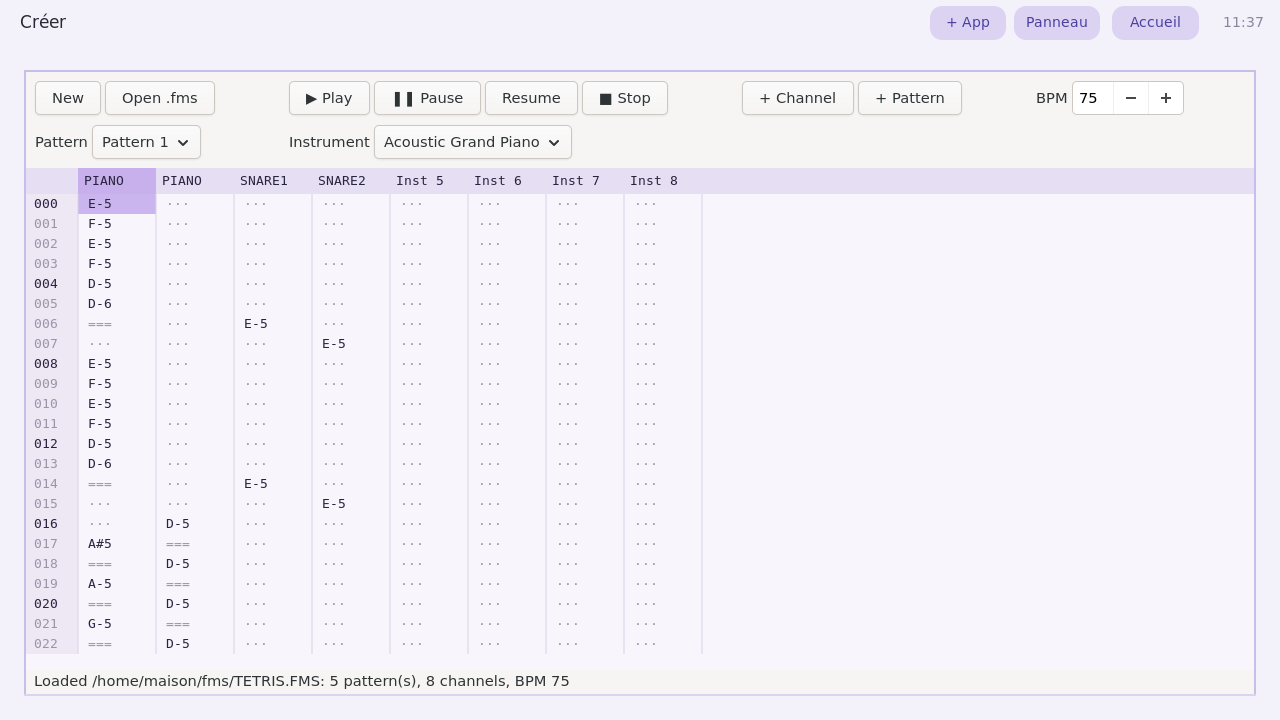
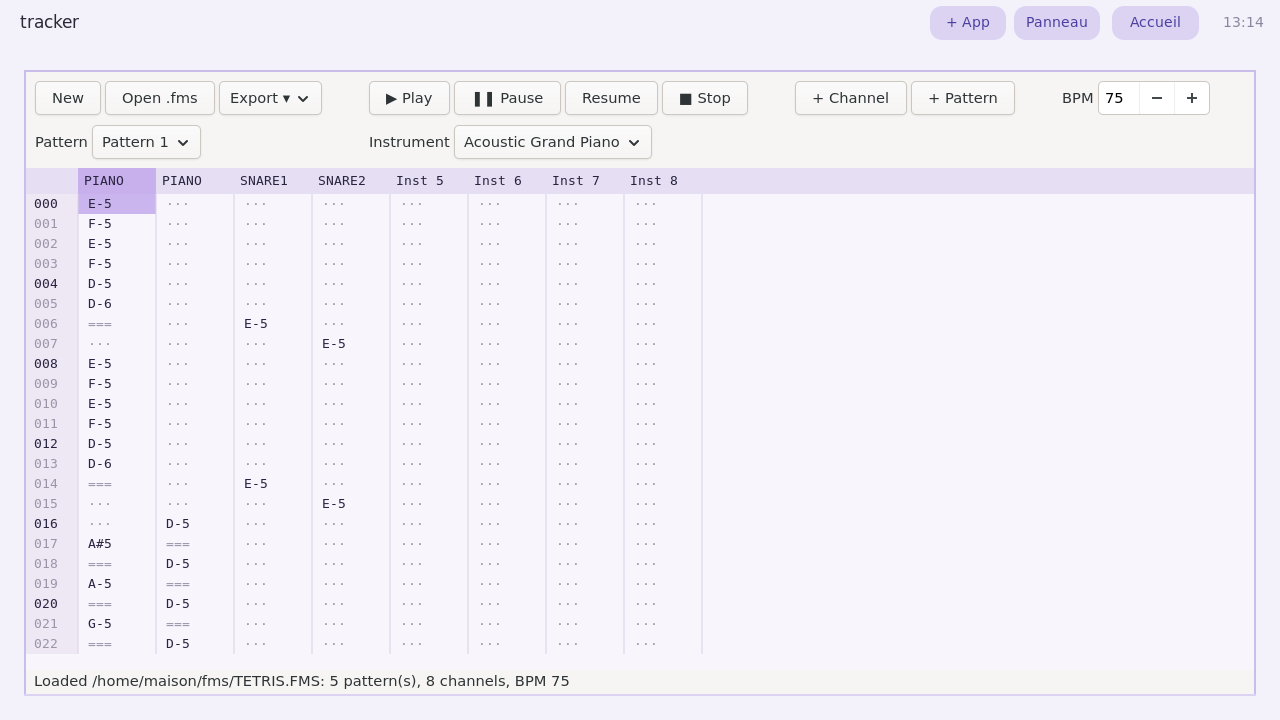
fmtracker: export to MIDI/WAV/MP3/MuseScore; credit FM-Song; document export + theming
- export.py: native Standard MIDI File writer; WAV via fluidsynth; MP3 via
  ffmpeg/lame; MuseScore via the mscore CLI. New "Export ▾" toolbar menu in the app
  (runs in a worker thread). Verified on the Pi: MIDI, WAV and MP3 all produce files.
- Credit the origin: FM-Song by Asher256 (github.com/Asher256, qbworld.asher256.com)
  in the app package, the README and the user manual.
- Docs: add a Themes section (Super+Shift+T, light/dark palettes, global or per
  activity) + screenshot; document the tracker export. Refresh the fmtracker shot
  (now shows the Export button).
- Deps: add ffmpeg (install-deps.sh; .deb Recommends ffmpeg + musescore3).

diff --git a/rootfs/usr/local/lib/focusde/apps/fmtracker/export.py b/rootfs/usr/local/lib/focusde/apps/fmtracker/export.py
@@ -1,0 +1,141 @@
+"""Export a Song to MIDI / WAV / MP3 / MuseScore.
+
+- **MIDI** is written natively (a Standard MIDI File, format 1) from the song model.
+- **WAV** renders that MIDI through fluidsynth + the General-MIDI SoundFont.
+- **MP3** re-encodes the WAV with ffmpeg (or lame).
+- **MuseScore** converts the MIDI with the MuseScore CLI (mscore) — MuseScore also
+  opens the plain `.mid` directly.
+
+Everything but MIDI shells out to external tools; each raises a clear error if the
+tool (or a SoundFont) is missing, so the caller can report it.
+"""
+
+from __future__ import annotations
+
+import os
+import shutil
+import subprocess
+import tempfile
+
+from . import synth as synthmod
+from .model import REST, Song
+
+PPQ = 480     # MIDI ticks per quarter note
+
+
+def _vlq(n: int) -> bytes:
+    """MIDI variable-length quantity."""
+    out = bytearray([n & 0x7F])
+    n >>= 7
+    while n > 0:
+        out.insert(0, (n & 0x7F) | 0x80)
+        n >>= 7
+    return bytes(out)
+
+
+def write_midi(song: Song, path: str) -> str:
+    """Render the whole song (following the order-list) to a Standard MIDI File."""
+    tpr = max(1, PPQ // max(1, song.rows_per_beat))     # ticks per row
+    n_ch = len(song.channels)
+    events = [[] for _ in range(n_ch)]                  # per channel: (tick, status, d1, d2)
+    active = [None] * n_ch
+    grow = 0
+    order = song.order or list(range(len(song.patterns)))
+    for pidx in order:
+        if not (0 <= pidx < len(song.patterns)):
+            continue
+        pat = song.patterns[pidx]
+        for row in range(pat.rows):
+            tick = grow * tpr
+            for ch in range(n_ch):
+                cell = pat.data[ch][row] if ch < len(pat.data) else None
+                if cell is None:
+                    continue
+                mc = song.channels[ch].midi_channel
+                if active[ch] is not None:
+                    events[ch].append((tick, 0x80 | mc, active[ch], 0))
+                    active[ch] = None
+                if cell == REST:
+                    continue
+                if 0 <= cell <= 127:
+                    events[ch].append((tick, 0x90 | mc, cell, 100))
+                    active[ch] = cell
+            grow += 1
+    end_tick = grow * tpr
+    for ch in range(n_ch):
+        if active[ch] is not None:
+            events[ch].append((end_tick, 0x80 | song.channels[ch].midi_channel, active[ch], 0))
+
+    tracks = []
+    tempo = int(60_000_000 / max(1.0, song.bpm))        # microseconds per quarter
+    meta = _vlq(0) + b"\xFF\x51\x03" + tempo.to_bytes(3, "big")
+    meta += _vlq(0) + b"\xFF\x2F\x00"
+    tracks.append(meta)
+    for ch in range(n_ch):
+        mc = song.channels[ch].midi_channel
+        data = _vlq(0) + bytes([0xC0 | mc, song.channels[ch].program & 0x7F])
+        last = 0
+        for tick, status, d1, d2 in sorted(events[ch], key=lambda e: e[0]):
+            data += _vlq(tick - last) + bytes([status, d1, d2])
+            last = tick
+        data += _vlq(0) + b"\xFF\x2F\x00"
+        tracks.append(data)
+
+    with open(path, "wb") as f:
+        f.write(b"MThd" + (6).to_bytes(4, "big") + (1).to_bytes(2, "big")
+                + len(tracks).to_bytes(2, "big") + PPQ.to_bytes(2, "big"))
+        for t in tracks:
+            f.write(b"MTrk" + len(t).to_bytes(4, "big") + t)
+    return path
+
+
+def render_wav(midi_path: str, wav_path: str, soundfont: str | None = None, rate: int = 44100) -> str:
+    sf = soundfont or synthmod.find_default_soundfont()
+    if not sf:
+        raise RuntimeError("no SoundFont found (install fluid-soundfont-gm)")
+    fs = shutil.which("fluidsynth")
+    if not fs:
+        raise RuntimeError("fluidsynth is not installed")
+    subprocess.run([fs, "-ni", "-g", "0.8", "-r", str(rate), "-F", wav_path, sf, midi_path],
+                   check=True, stdout=subprocess.DEVNULL, stderr=subprocess.DEVNULL)
+    return wav_path
+
+
+def wav_to_mp3(wav_path: str, mp3_path: str) -> str:
+    if shutil.which("ffmpeg"):
+        subprocess.run(["ffmpeg", "-y", "-i", wav_path, "-b:a", "192k", mp3_path],
+                       check=True, stdout=subprocess.DEVNULL, stderr=subprocess.DEVNULL)
+    elif shutil.which("lame"):
+        subprocess.run(["lame", "-b", "192", wav_path, mp3_path],
+                       check=True, stdout=subprocess.DEVNULL, stderr=subprocess.DEVNULL)
+    else:
+        raise RuntimeError("need ffmpeg or lame to make MP3")
+    return mp3_path
+
+
+def midi_to_musescore(midi_path: str, out_path: str) -> str:
+    for exe in ("mscore", "musescore", "musescore4", "musescore3", "mscore4", "mscore3"):
+        p = shutil.which(exe)
+        if p:
+            subprocess.run([p, "-o", out_path, midi_path],
+                           check=True, stdout=subprocess.DEVNULL, stderr=subprocess.DEVNULL)
+            return out_path
+    raise RuntimeError("MuseScore (mscore) is not installed — the .mid opens in MuseScore directly")
+
+
+def export(song: Song, path: str, fmt: str) -> str:
+    """fmt in {'midi','wav','mp3','musescore'}. Returns the written path."""
+    if fmt == "midi":
+        return write_midi(song, path)
+    with tempfile.TemporaryDirectory() as tmp:
+        mid = os.path.join(tmp, "song.mid")
+        write_midi(song, mid)
+        if fmt == "wav":
+            return render_wav(mid, path)
+        if fmt == "mp3":
+            wav = os.path.join(tmp, "song.wav")
+            render_wav(mid, wav)
+            return wav_to_mp3(wav, path)
+        if fmt == "musescore":
+            return midi_to_musescore(mid, path)
+    raise ValueError("unknown format: %s" % fmt)

diff --git a/rootfs/usr/local/lib/focusde/apps/fmtracker/app.py b/rootfs/usr/local/lib/focusde/apps/fmtracker/app.py
@@ -2,13 +2,15 @@
 
 from __future__ import annotations
 
+import threading
+
 import gi
 
 gi.require_version("Gtk", "4.0")
 gi.require_version("Gdk", "4.0")
 from gi.repository import GLib, Gdk, Gtk      # noqa: E402
 
-from . import fms, gm                          # noqa: E402
+from . import export, fms, gm                  # noqa: E402
 from .gridview import GridView, ROW_H, HEAD_H   # noqa: E402
 from .model import REST, Song, make_midi, midi_to_name   # noqa: E402
 from .sequencer import Sequencer               # noqa: E402
@@ -88,7 +90,8 @@ class FmTrackerWindow(Gtk.ApplicationWindow):
                 g.append(w)
             bar.insert(g, -1)
 
-        group(button("New", self._on_new), button("Open .fms", self._on_open_fms))
+        group(button("New", self._on_new), button("Open .fms", self._on_open_fms),
+              self._export_button())
         group(button("▶ Play", self._on_play), button("❚❚ Pause", self._on_pause),
               button("Resume", self._on_resume), button("■ Stop", self._on_stop))
         group(button("+ Channel", self._on_add_channel),
@@ -107,6 +110,51 @@ class FmTrackerWindow(Gtk.ApplicationWindow):
         self.inst_drop.connect("notify::selected", self._on_instrument_changed)
         group(Gtk.Label(label="Instrument"), self.inst_drop)
         return bar
+
+    def _export_button(self):
+        btn = Gtk.MenuButton(label="Export ▾")
+        btn.set_focusable(False)
+        pop = Gtk.Popover()
+        box = Gtk.Box(orientation=Gtk.Orientation.VERTICAL, spacing=4)
+        for m in ("start", "end", "top", "bottom"):
+            getattr(box, f"set_margin_{m}")(6)
+        for label, fmt, ext in (("MIDI (.mid)", "midi", "mid"),
+                                ("WAV (.wav)", "wav", "wav"),
+                                ("MP3 (.mp3)", "mp3", "mp3"),
+                                ("MuseScore (.mscz)", "musescore", "mscz")):
+            b = Gtk.Button(label=label)
+            b.connect("clicked", self._on_export, fmt, ext, pop)
+            box.append(b)
+        pop.set_child(box)
+        btn.set_popover(pop)
+        return btn
+
+    def _on_export(self, _b, fmt, ext, pop):
+        pop.popdown()
+        name = (self.song.title or "song").strip() or "song"
+        dlg = Gtk.FileChooserNative(title="Export %s" % fmt.upper(),
+                                    transient_for=self, action=Gtk.FileChooserAction.SAVE)
+        dlg.set_current_name("%s.%s" % (name, ext))
+        dlg.connect("response", self._on_export_response, fmt)
+        dlg.show()
+        self._export_dialog = dlg
+
+    def _on_export_response(self, dlg, response, fmt):
+        if response == Gtk.ResponseType.ACCEPT:
+            gf = dlg.get_file()
+            if gf:
+                self.status.set_text("Exporting %s…" % fmt.upper())
+                threading.Thread(target=self._do_export, args=(gf.get_path(), fmt),
+                                 daemon=True).start()
+        dlg.destroy()
+        self._export_dialog = None
+
+    def _do_export(self, path, fmt):
+        try:
+            out = export.export(self.song, path, fmt)
+            GLib.idle_add(self.status.set_text, "Exported: " + out)
+        except Exception as exc:                 # noqa: BLE001
+            GLib.idle_add(self.status.set_text, "Export failed (%s): %s" % (fmt, exc))
 
     # -- helpers -------------------------------------------------------------
 

diff --git a/rootfs/usr/local/lib/focusde/apps/fmtracker/__init__.py b/rootfs/usr/local/lib/focusde/apps/fmtracker/__init__.py
@@ -1,3 +1,9 @@
-"""FM-Song Tracker — a fluidsynth-backed MIDI tracker for Focus DE."""
+"""FM-Song Tracker — a fluidsynth-backed MIDI tracker for Focus DE.
+
+Descends from **FM-Song** by Asher256 (a QuickBASIC AdLib/OPL tracker):
+https://github.com/Asher256 · https://qbworld.asher256.com/
+This is a modern reimagining (MIDI/fluidsynth, GTK4) that still imports the
+original `.fms` tunes.
+"""
 
 __version__ = "0.1.0"

diff --git a/docs/user-manual.md b/docs/user-manual.md
@@ -200,9 +200,39 @@ step (time runs downward).
 During playback the grid **scrolls** to follow the play-head and **chains patterns**
 according to the order list, looping.
 
+**Exporting your music** — the **Export ▾** button writes the song as:
+
+| Format | Notes |
+|--------|-------|
+| **MIDI** (`.mid`) | written natively from the song |
+| **WAV** (`.wav`) | rendered through fluidsynth + the SoundFont |
+| **MP3** (`.mp3`) | re-encoded with `ffmpeg` |
+| **MuseScore** (`.mscz`) | converted with the `mscore` CLI — the `.mid` also opens directly in MuseScore |
+
+> FM-Song Tracker descends from **FM-Song** by *Asher256*, a QuickBASIC AdLib/OPL
+> tracker ([github.com/Asher256](https://github.com/Asher256) ·
+> [qbworld.asher256.com](https://qbworld.asher256.com/)). This is a modern
+> reimagining (MIDI / fluidsynth) that still opens the original `.fms` tunes.
+
 ---
 
-## 10. Keyboard shortcuts
+## 10. Themes
+
+![Choosing a theme](images/theme-picker.png)
+
+Press `Super`+`Shift`+`T` to open **Choisir un thème** (Choose a theme). Pick from a
+palette of light and dark themes (Lavande, Océan, Forêt, Nuit, Encre…); the change
+is applied **live**.
+
+The **Partout** / **Cette activité** toggle sets the scope:
+
+- **Partout** (Everywhere) — the default theme for the whole desktop;
+- **Cette activité** (This activity) — a colour just for the current activity, so
+  each activity can look distinct.
+
+---
+
+## 11. Keyboard shortcuts
 
 `Super` = the logo key (Windows / ⌘).
 

diff --git a/README.md b/README.md
@@ -39,9 +39,17 @@ on **Sway** (Wayland) and hosts **real** Linux applications inside.
 
 A **tracker**: compose by placing notes in a grid, played by a **MIDI** synth
 (fluidsynth + a General-MIDI SoundFont). It even reopens the original FM-Song
-**`.fms`** tunes. Drive it with the keyboard (note entry) and the mouse (transport,
-instruments, patterns). The **FM-Player** applet plays those `.fms` tunes — a single
-file or a whole folder — straight from the panel.
+**`.fms`** tunes, and **exports** to MIDI / WAV / MP3 / MuseScore. Drive it with the
+keyboard (note entry) and the mouse (transport, instruments, patterns). The
+**FM-Player** applet plays those `.fms` tunes — a single file or a whole folder —
+straight from the panel.
+
+> FM-Song Tracker descends from **FM-Song** by *Asher256*
+> ([github.com/Asher256](https://github.com/Asher256) ·
+> [qbworld.asher256.com](https://qbworld.asher256.com/)), reimagined on MIDI/fluidsynth.
+
+Prefer a different look? A built-in **theme** picker (`Super`+`Shift`+`T`) offers many
+light and dark palettes, applied live — globally or per activity.
 
 ## Quick install
 